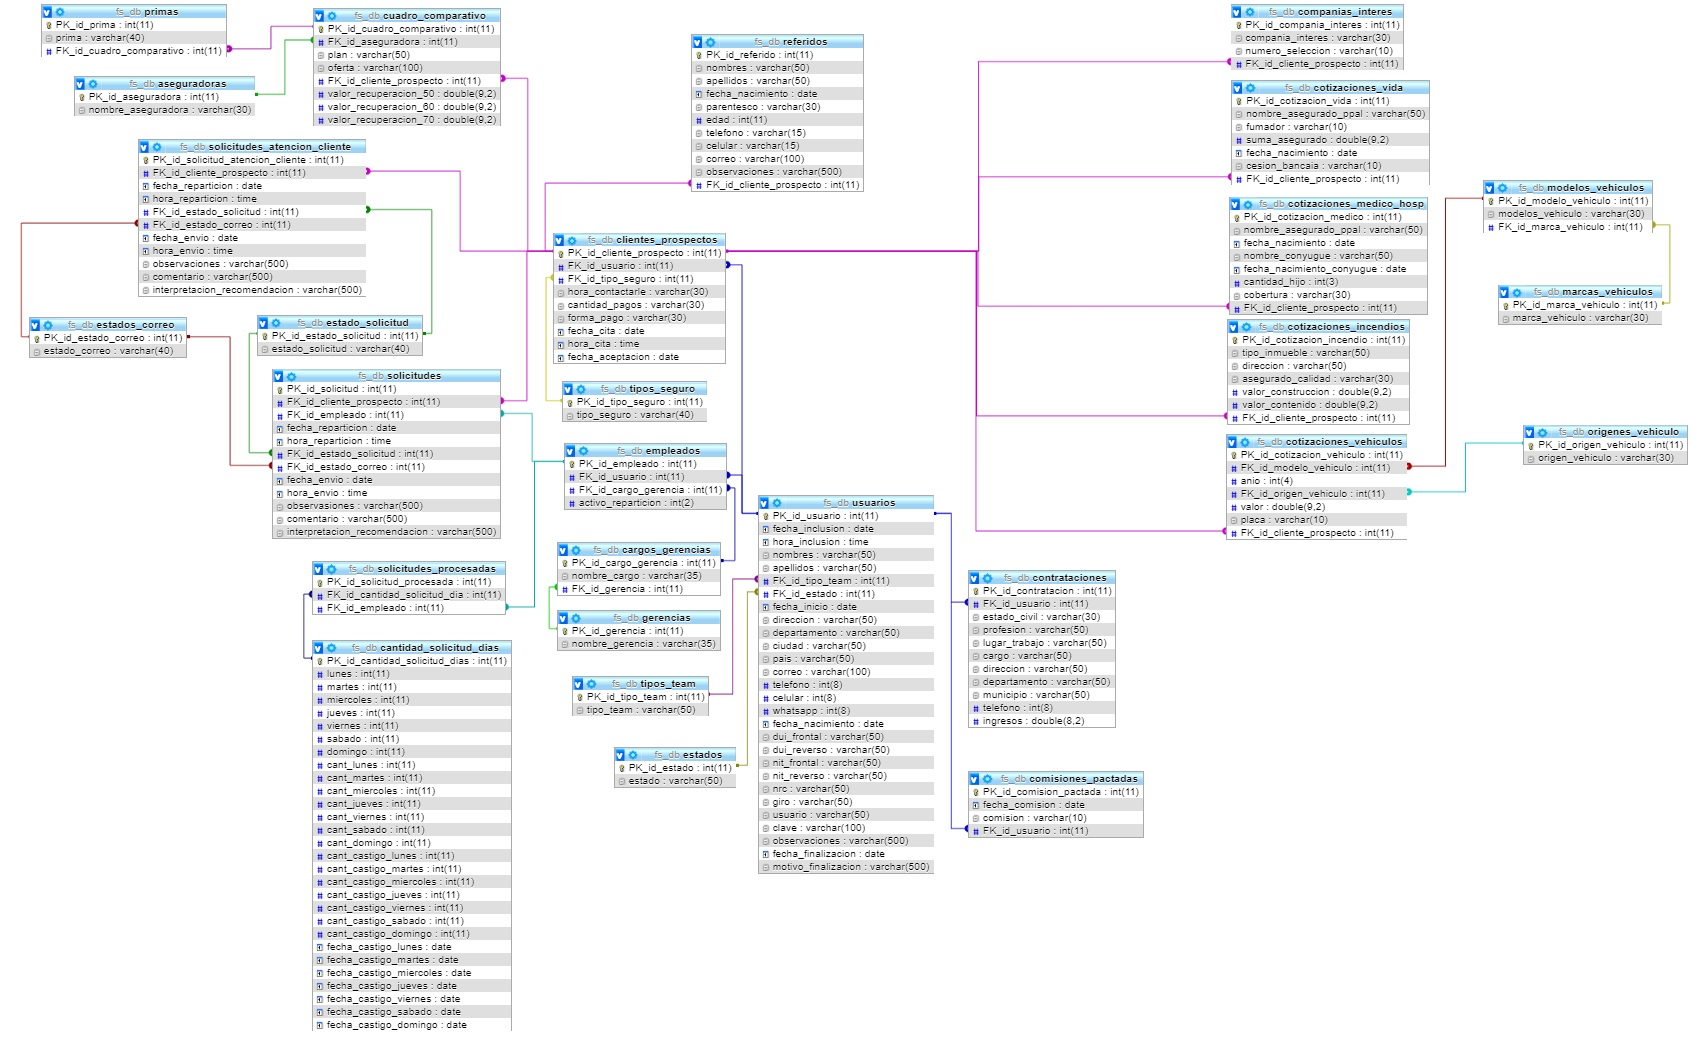
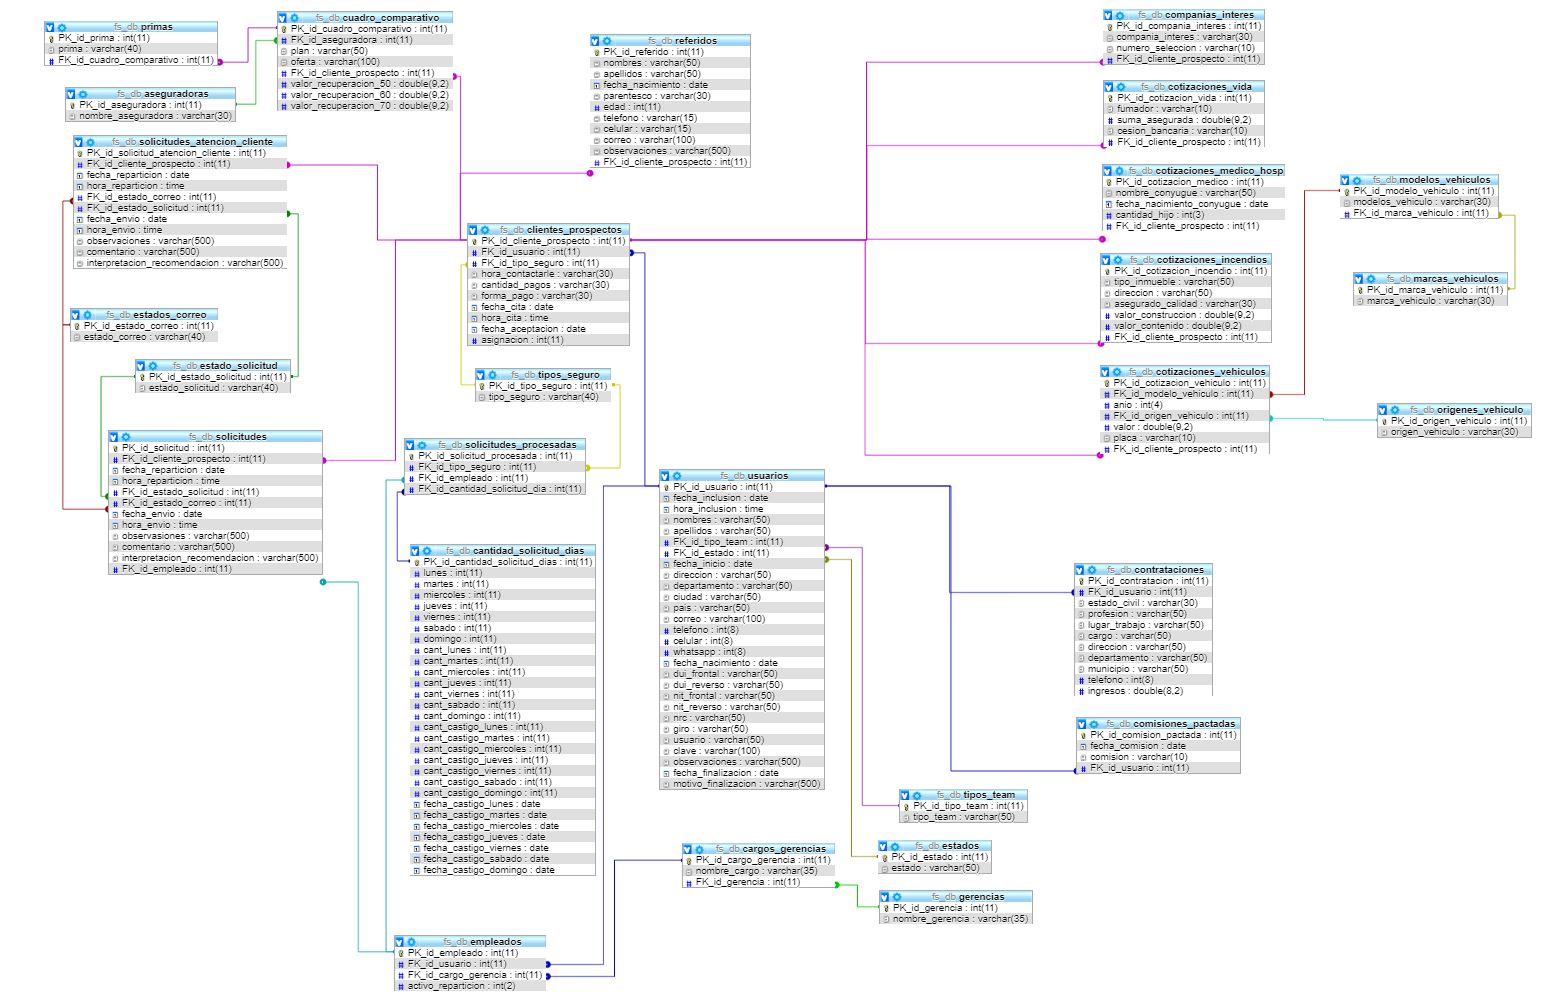
diagrama actualizado y tarea programada

diff --git a/app/controllers/tareas_programadas/reparticion_solicitudes.php b/app/controllers/tareas_programadas/reparticion_solicitudes.php
@@ -11,7 +11,55 @@ require_once('../../models/cliente_prospectos.class.php');
 date_default_timezone_set('America/El_Salvador');
 $dias_semana = ['domingo', 'lunes', 'martes', 'miercoles', 'jueves', 'viernes', 'sabado'];
 $dia = date('N');
-echo $dias_semana[$dia];
+//echo $dias_semana[$dia];
 
-$solicitudes_procesadas = new Solicitudes_procesadas;
+$solicitud_procesada = new Solicitudes_procesadas;
+$empleado = new Empleados;
+$solicitud = new Solicitudes;
+$solicitud_atencion_cliente = new Solicitudes_atencion_cliente;
+$cliente_prospecto = new Cliente_Prospecto;
+
+
+$empleados = $empleado->getEmpleadosVentas();
+$clientes_prospectos = $cliente_prospecto->getClientesProspectos();//Obtiene los clientes ó prospectos que aun no se han asignado a un empleado para generar el cuadro comparativo de los seguros
+
+$id_empleado = '';
+$contador_empleado = count($empleados);
+$contador_cliente_prospecto = count($clientes_prospectos);
+$contador = 0;
+if($contador_empleado < $contador_cliente_prospecto)//Si las cotizaciones 
+{
+    echo 'los empleados son menos que las soli';
+}
+else
+{
+    echo 'los empleados son mas que las soli';
+}
+for($j = 0; $j<count($clientes_prospectos); $j++)
+{
+
+}
+for($i = 0; $i<count($empleados); $i++)
+{
+    $id_empleado = $empleados[$i][0];//Obtenemos el id del empleado
+    $solicitud_procesada->setIdEmpleado($id_empleado);
+    $solicitudes_dia_empleado = $solicitud_procesada->getDiasxEmpleado($dias_semana[$dia]);//En esta funcion ejecutada obtiene las cantidades de las solicitudes que puede procesar por dia, si el empleado no eligio procesar solicitudes en el dia el valor obtenido será null
+    if($solicitudes_dia_empleado != null)//Si hay empleado tiene disponibilidad aun para asignarle solicitudes
+    {
+        $contador = $contador + 1;//Contador de solicitudes que han sido asignadas a un empleado
+        echo $contador;
+        $cant_pred = $solicitudes_dia_empleado[$dias_semana[$dia]];//Obtiene la cantidad de solicitudes predeterminadas(Cantidad cuando se registro) 
+        $cant_dia = $solicitudes_dia_empleado['cant_'.$dias_semana[$dia]];//Obtiene la cantidad de solicitud repartida en el dia
+        if($cant_pred > $cant_dia)
+        {
+            
+        }
+    }
+    
+
+    
+    /*print($solicitudes_dia_empleado[$dias_semana[$dia]]);
+    print($solicitudes_dia_empleado['cant_'.$dias_semana[$dia]]);*/
+
+}
 ?>

diff --git a/app/models/solicitudes_procesadas.class.php b/app/models/solicitudes_procesadas.class.php
@@ -39,7 +39,7 @@ class Solicitudes_procesadas extends Validator
 		return $this->FK_id_cantidad_solicitud_dia;
     }
 
-	public function setEmpleado($value)
+	public function setIdEmpleado($value)
 	{
 		if($this->validateId($value))
 		{
@@ -51,21 +51,25 @@ class Solicitudes_procesadas extends Validator
 			return false;
 		}
 	}
-	public function getEmpleado()
+	public function getIdEmpleado()
 	{
 		return $this->FK_id_empleado;
 	}
 
 	//FUNCIONES PARA LAS TAREAS PROGRAMADAS
-	public function getDiasxEmpleado()
+	public function getDiasxEmpleado($dia)
 	{
-		$sql = 'SELECT csd.PK_id_cantidad_solicitud_dias, csd.lunes, csd.martes, csd.miercoles, csd.jueves, csd.viernes, csd.sabado, csd.domingo, csd.cant_lunes, csd.cant_martes, csd.cant_miercoles, csd.cant_jueves, csd.cant_viernes, csd.cant_sabado, csd.cant_domingo, csd.cant_castigo_lunes, csd.cant_castigo_martes, csd.cant_castigo_miercoles, csd.cant_castigo_jueves, csd.cant_castigo_viernes, csd.cant_castigo_sabado, csd.cant_castigo_domingo, csd.fecha_castigo_lunes, csd.fecha_castigo_martes, csd.fecha_castigo_miercoles, csd.fecha_castigo_jueves, csd.fecha_castigo_viernes, csd.fecha_castigo_sabado, csd.fecha_castigo_domingo, es.estado
+		$sql = 'SELECT csd.PK_id_cantidad_solicitud_dias, csd.lunes, csd.martes, csd.miercoles, csd.jueves, csd.viernes, csd.sabado, csd.domingo, 
+		csd.cant_lunes, csd.cant_martes, csd.cant_miercoles, csd.cant_jueves, csd.cant_viernes, csd.cant_sabado, csd.cant_domingo, 
+		csd.cant_castigo_lunes, csd.cant_castigo_martes, csd.cant_castigo_miercoles, csd.cant_castigo_jueves, csd.cant_castigo_viernes, csd.cant_castigo_sabado, csd.cant_castigo_domingo, 
+		csd.fecha_castigo_lunes, csd.fecha_castigo_martes, csd.fecha_castigo_miercoles, csd.fecha_castigo_jueves, csd.fecha_castigo_viernes, csd.fecha_castigo_sabado, csd.fecha_castigo_domingo, 
+		es.estado, sp.FK_id_tipo_seguro
 		FROM cantidad_solicitud_dias csd 
 		INNER JOIN solicitudes_procesadas sp ON csd.PK_id_cantidad_solicitud_dias = sp.FK_id_cantidad_solicitud_dia 
 		INNER JOIN empleados e ON sp.FK_id_empleado = e.PK_id_empleado 
 		INNER JOIN usuarios u ON e.FK_id_usuario = u.PK_id_usuario 
 		INNER JOIN estados es ON u.FK_id_estado = es.PK_id_estado
-		WHERE e.PK_id_empleado = ?';
+		WHERE e.PK_id_empleado = ? AND csd.'.$dia.' > 0';
 		$params = array($this->FK_id_empleado);
 		return Database::getRow($sql, $params);
 	}

diff --git a/app/models/cliente_prospectos.class.php b/app/models/cliente_prospectos.class.php
@@ -165,7 +165,18 @@ class Cliente_Prospecto extends Validator{
 		return $this->fecha_aceptacion;
 	}
 	
+	//FUNCIONES PARA LAS TAREAS PROGRAMADAS
+	public function getClientesProspectos()
+	{
+		$sql = 'SELECT PK_id_cliente_prospecto, FK_id_usuario, FK_id_tipo_seguro, hora_contactarle, cantidad_pagos, forma_pago, fecha_cita, hora_cita, fecha_aceptacion, asignacion 
+		FROM clientes_prospectos 
+		WHERE asignacion = 0';
+		$params = array(null);
+		return Database::getRows($sql, $params);
+	}
+	//FIN DE FUNCIONES PARA LAS TAREAS PROGRAMADAS
 
+	//FUNCIONES PARA EL SCRUD
 	public function createClienteProspecto()
 	{
 		$sql = "INSERT INTO clientes_prospectos(FK_id_usuario, FK_id_tipo_seguro, hora_contactarle, cantidad_pagos, forma_pago, fecha_cita, hora_cita, fecha_aceptacion) 
